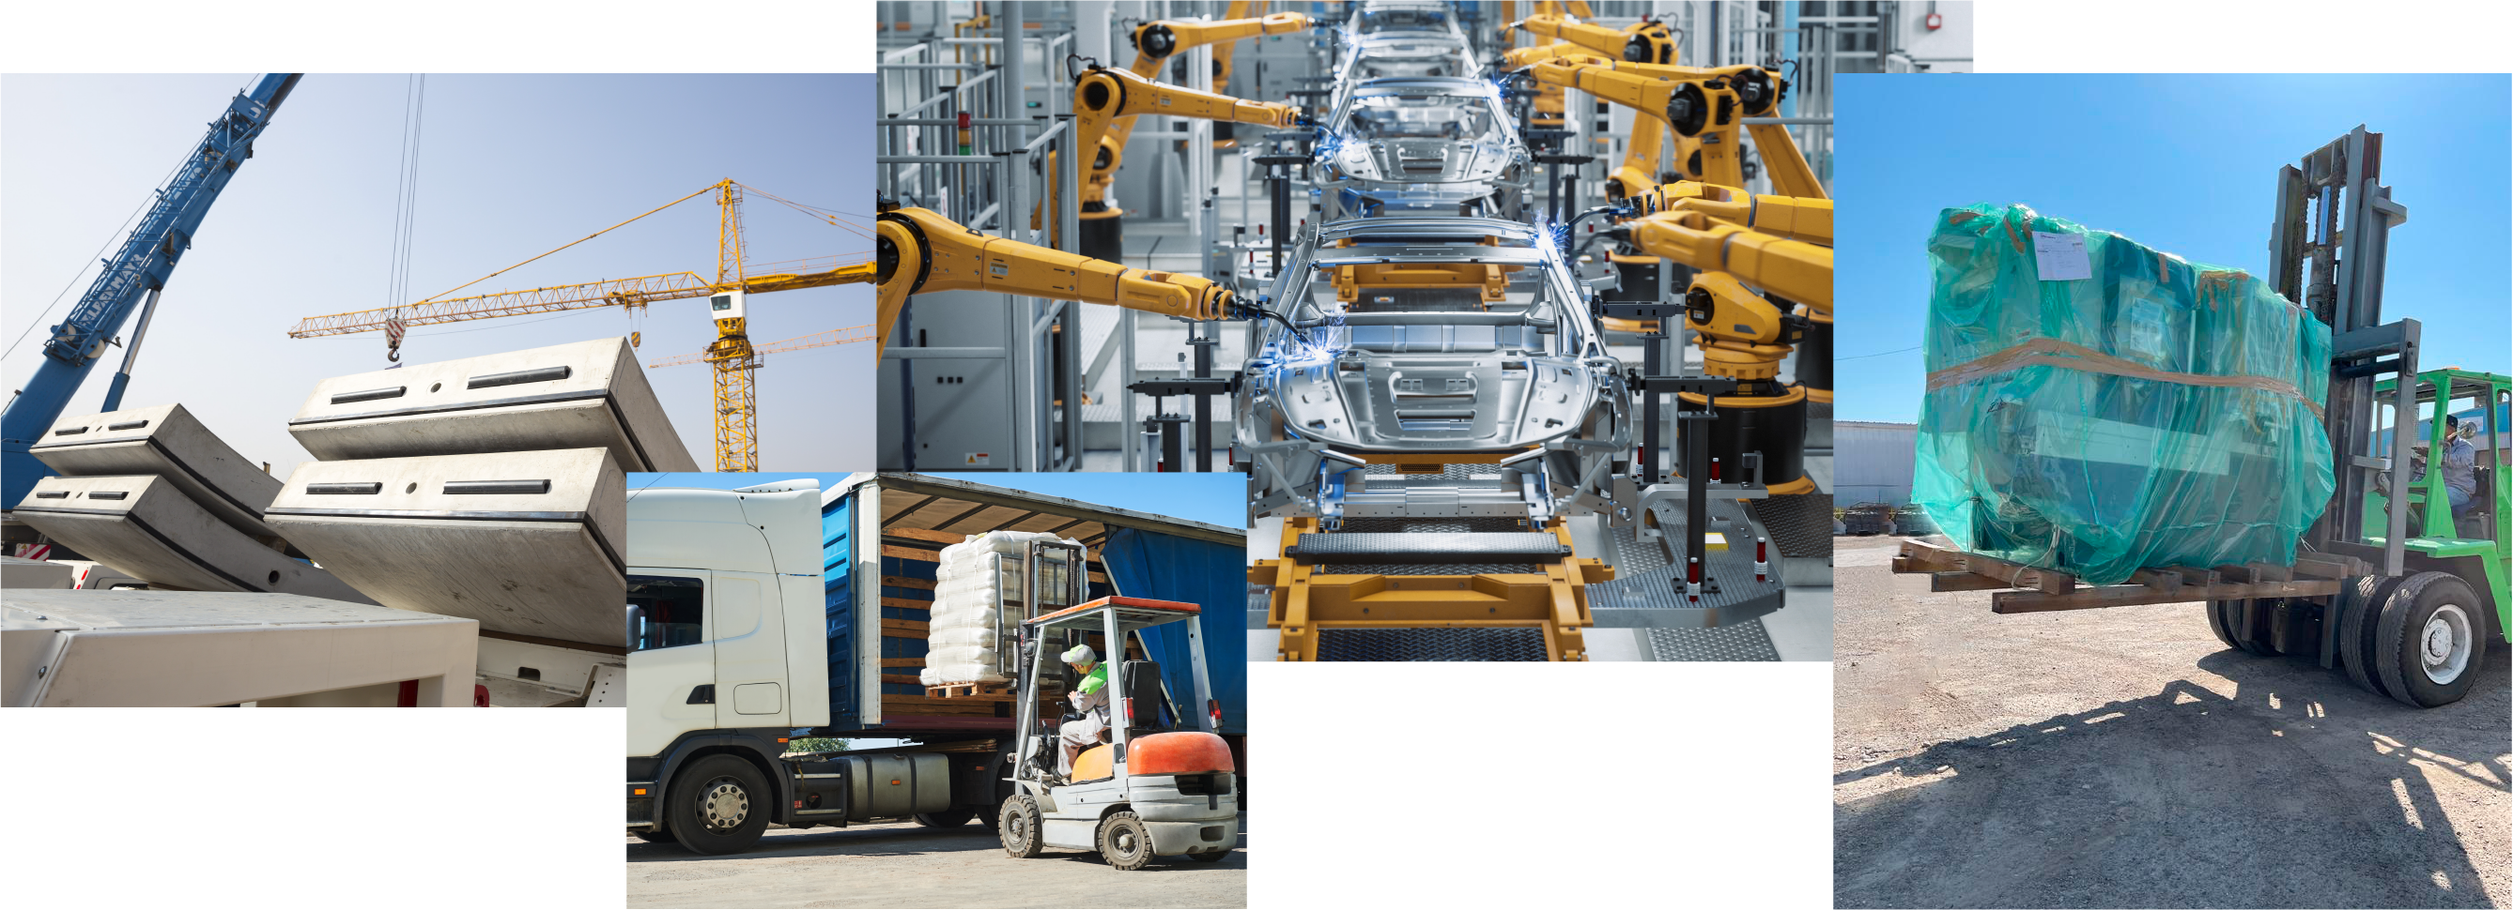
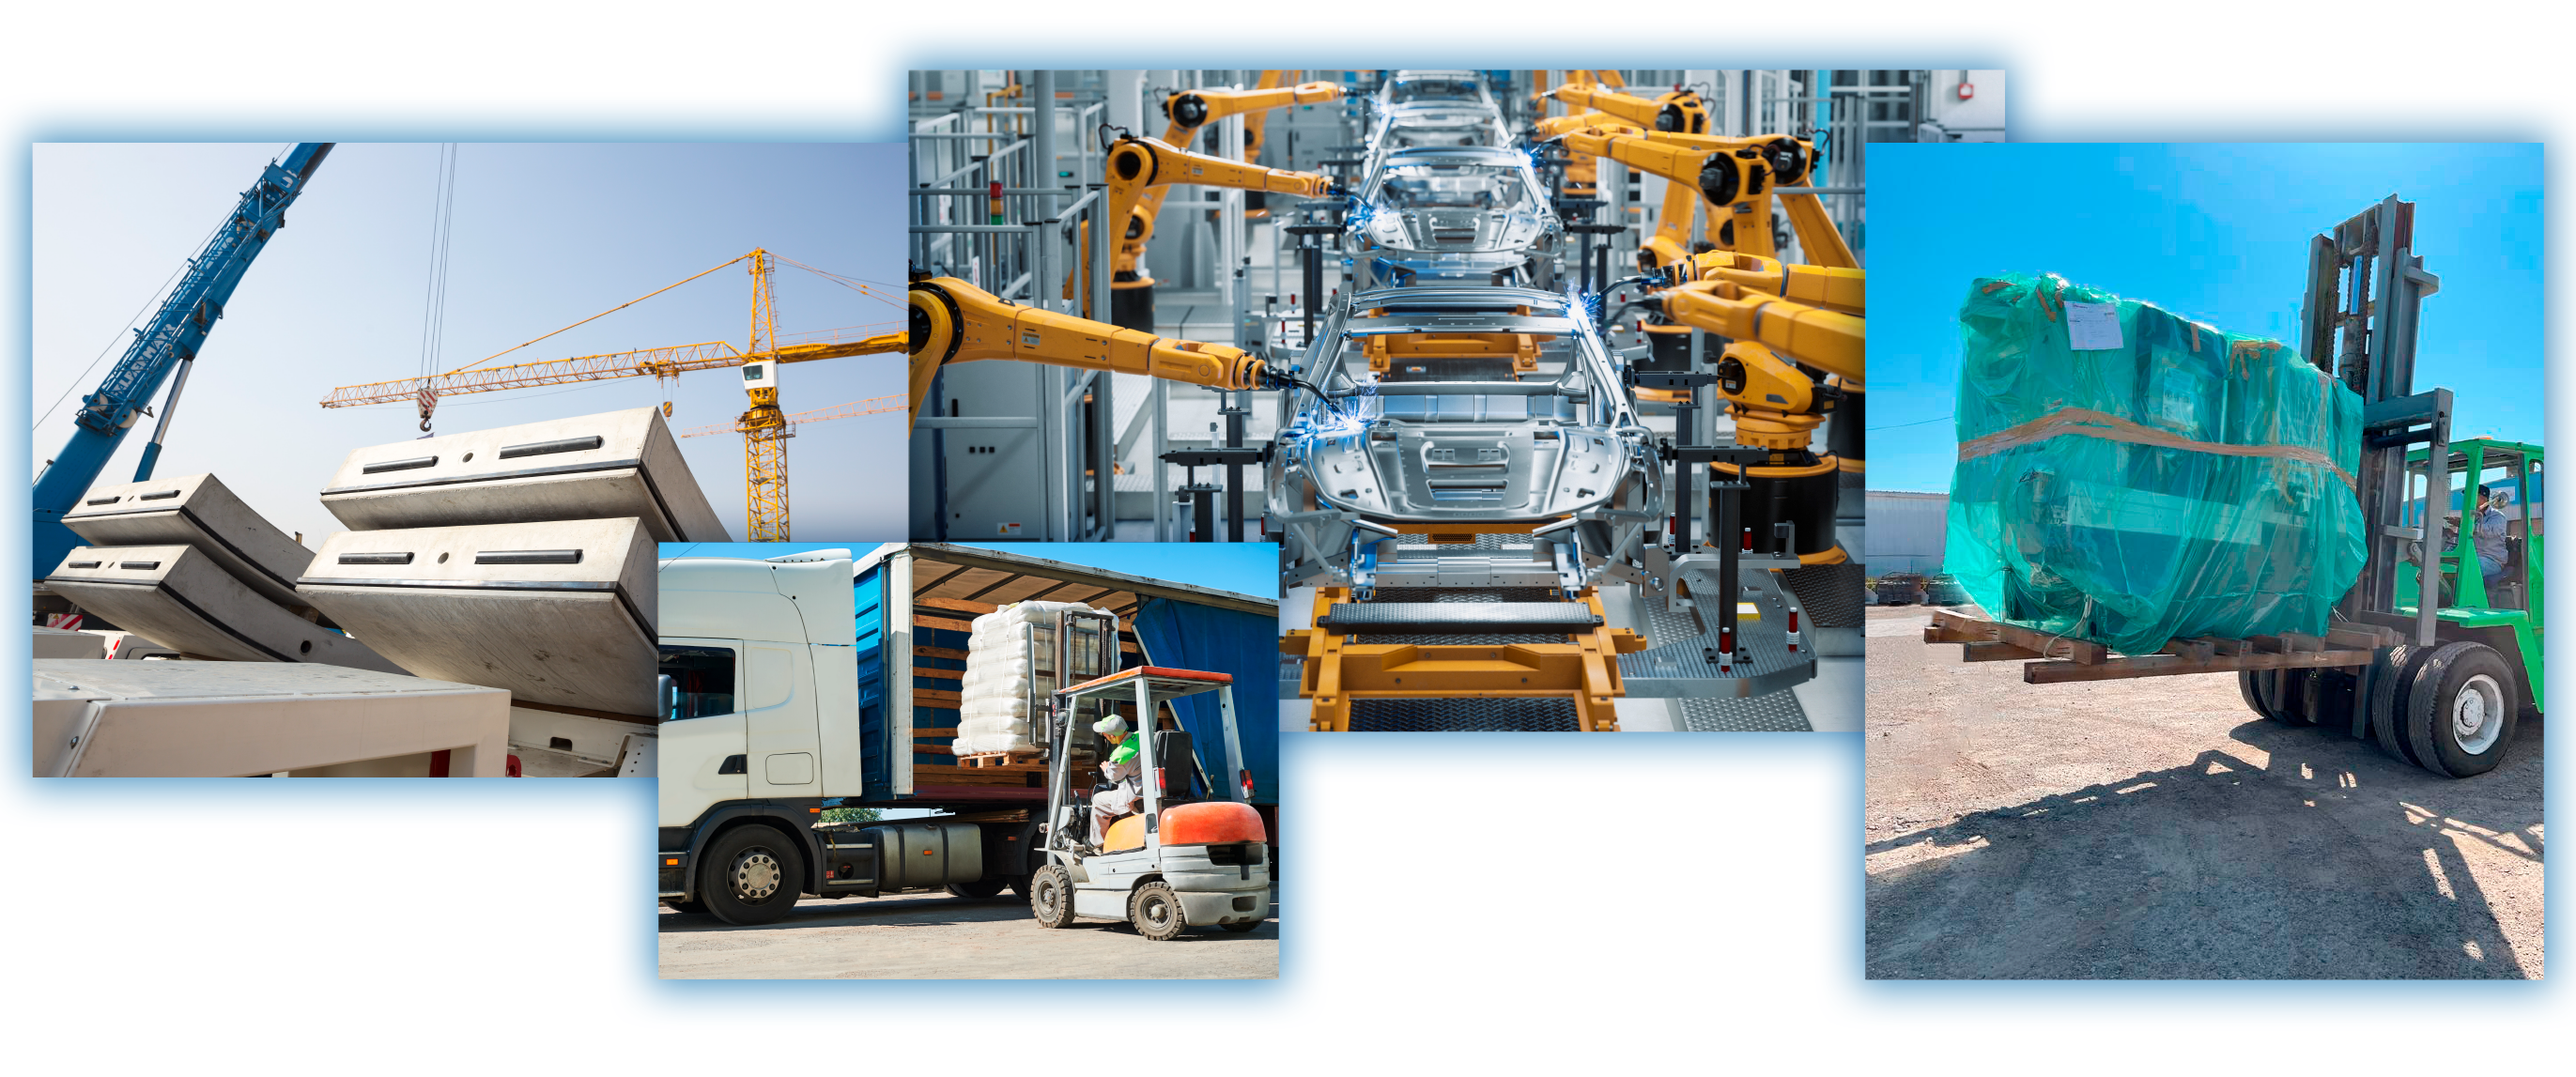
font family

diff --git a/index.html b/index.html
@@ -9,8 +9,10 @@
 
 <link rel = "stylesheet" href="bootstrap.css">
 <link rel = "stylesheet" href="node_modules/bootstrap-icons/font/bootstrap-icons.css">
-
-
+<style>@import url('https://fonts.googleapis.com/css2?family=PT+Sans+Narrow:wght@700&family=Unbounded:wght@500&display=swap');</style>
+<link rel="preconnect" href="https://fonts.googleapis.com">
+<link rel="preconnect" href="https://fonts.gstatic.com" crossorigin>
+<link href="https://fonts.googleapis.com/css2?family=DM+Sans:wght@400;500&family=Raleway:wght@100;500&display=swap" rel="stylesheet">
 
 
 <style>
@@ -42,9 +44,6 @@
         }
         .nav-link:hover {
             color: #4bccf9;
-        }
-        .nav-link:checked {
-            color: pink;
         }
         .navbar{
             position: fixed;
@@ -104,10 +103,14 @@
             color: blue;
             
             transition: 5s all ease;
+            font-family: 'PT Sans Narrow', sans-serif;
+            font-family: 'Unbounded', cursive;
         }
         .negro{
             font-weight: 500;
             transition: 5s all ease;
+            font-family: 'PT Sans Narrow', sans-serif;
+            font-family: 'Unbounded', cursive;
         }
         .parallax-container {
             /*  this is where the magic happens:  */
@@ -129,11 +132,15 @@
         }
         .parallax-container2 {
             /*  this is where the magic happens:  */
-            background-image: url("https://images.unsplash.com/photo-1519120944692-1a8d8cfc107f?ixlib=rb-1.2.1&ixid=MnwxMjA3fDB8MHxwaG90by1wYWdlfHx8fGVufDB8fHx8&auto=format&fit=crop&w=872&q=80");
+            background-image: url("assets/IMG_5128-azul2.png");
             background-attachment: fixed;
             background-position: center;
             background-size: cover;
-            background-size: 100% 100%;  
+            background-size: 100% 100%;
+            
+            text-shadow: 2px 2px 4px #424143;
+            color:#ff6600;
+            
             
 
             /* dimensions are important, ensure it is tall enough to scroll */ 
@@ -143,12 +150,70 @@
             display: flex;
             flex-direction: column;
             align-items: center;
-             justify-content: center;
+            justify-content: center;
         }
+        .bg-divided{
+            width: 100%;
+            height: 100vh;
+            background: linear-gradient(
+                to right,
+                #ff6600 0%,
+                #ff6600 50%,
+                #4bccf9 50%,
+                #4bccf9 100%
+            );
+        }
+        .float{
+            position:fixed;
+            width:60px;
+            height:60px;
+            bottom:10px;
+            right:19px;
+            background-color:#25d366;
+            color:#FFF;
+            border-radius:50px;
+            text-align:center;
+            font-size:30px;
+            box-shadow: 2px 2px 3px #999;
+            z-index:100;
+        }
+
+        .my-float{
+            margin-top:16px;
+        }
+        .display-1{
+            font-family: 'PT Sans Narrow', sans-serif;
+            font-family: 'Unbounded', cursive;
+        }
+        .display-2{
+            font-family: 'PT Sans Narrow', sans-serif;
+            font-family: 'Unbounded', cursive;
+        }
+        .display-3{
+            font-family: 'PT Sans Narrow', sans-serif;
+            font-family: 'Unbounded', cursive;
+        }
+        .display-4{
+            font-family: 'PT Sans Narrow', sans-serif;
+            font-family: 'Unbounded', cursive;
+        }
+        .display-5{
+            font-family: 'Raleway', sans-serif;
+        }
+        .display-6{
+            font-family: 'DM Sans', sans-serif;
+        }
+        
+        
 
 </style>
 
-<body> 
+<body>
+    
+    <link rel="stylesheet"  style = "margin-left: 50px;" href="https://maxcdn.bootstrapcdn.com/font-awesome/4.5.0/css/font-awesome.min.css">
+        <a href="tel:9565161917" class="float" target="_blank">
+        <i class="fa fa-whatsapp my-float"></i>
+    </a>
     
     <nav class="navbar navbar-expand-lg border-bottom border-white z-3" id="navbar" style="background-color:#000020;">
         <div class="container-fluid p-0">
@@ -269,7 +334,7 @@
                     </p>
                </div>
                 <div class="row gy-0" >
-                    <p class="display-6" style="">Diseñamos estrategias óptimas para el 
+                    <p class="display-6" >Diseñamos estrategias óptimas para el 
                         envío de su mercancía vía terrestre, marítima y aérea.
                     </p>
                 </div>
@@ -339,52 +404,57 @@
             <div class="row mt-5 z-0 ">
                 <div class="col-12 ">
                         <div class="display-1 text-center" style="font-weight: 900;">
-                            <span class="value" akhi="20000" style=" color:orange;">0</span><span style="font-size: 20%; color:orange;">sqft</span>
-                            <p class="display-6" style="font-weight: 600;color:orange;">PARA ALMACENAJE EN BODEGA</p> 
+                            <span style=" color:#ff6600;">20,000</span><span style="font-size: 20%; color:#ff6600;">sqft</span>
+                            <p class="display-6" style="font-weight: 600;color:#ff6600;">PARA ALMACENAJE EN BODEGA</p> 
                         </div>
                 </div>
             </div>
         </div>
 
         <!--CONTAMOS CON...-->
-        <div class="row align-items-center reveal pt-5 pb-5">
-            <div class="col-md-6 " >
-                <p class="display-4 text-left ind-lg" style=" font-weight: 700;">CONTAMOS CON  SERVICIOS  
-                ESPECIALIZADOS  COMO: </p> 
-            </div>
-            <div class="col-md-6">
-                <ul class="display-6" style="color:blue; font-weight: 350;  list-style-type: circle; padding-left: 15%; font-weight: 400;">
-                    <li class="reveal"><span>Servicios de Comercio Exterior</span></li>
-                    <li class="li1 reveal"><span>Etiquetado de mercancía</span></li>
-                    <li class="li1 reveal"><span>Manejo de carga especializada y sobre dimensionada</span></li>
-                    <li class="li1 reveal"><span>Consolidación multiproveedor</span></li>
-                    <li class="li1 reveal"><span>Operación de hand carriers y charters</span></li>
-                    <li class="li1 reveal"><span>Distribución</span></li>
-                </ul>
+        <div class="container bg-divided">
+            <div class="row align-items-center reveal pt-5 pb-5" >
+                <div class="col-md-6" >
+                    <p class="display-4 text-left ind-lg text-white" style=" font-weight: 700;">CONTAMOS CON  SERVICIOS  
+                    ESPECIALIZADOS  COMO: </p> 
+                </div>
+                <div class="col-md-6">
+                    <ul class="display-6" style="color:white; font-weight: 350;  list-style-type: circle; padding-left: 8%; font-weight: 400;">
+                        <li class="reveal"><span>Servicios de Comercio Exterior</span></li>
+                        <li class="li1 reveal"><span>Etiquetado de mercancía</span></li>
+                        <li class="li1 reveal"><span>Manejo de carga especializada y sobre dimensionada</span></li>
+                        <li class="li1 reveal"><span>Consolidación multiproveedor</span></li>
+                        <li class="li1 reveal"><span>Operación de hand carriers y charters</span></li>
+                        <li class="li1 reveal"><span>Distribución</span></li>
+                    </ul>
+                </div>
             </div>
         </div>
-
+        
+        
         <!--ALCANCE-->
-        <div class="container p-0 parallax-container">
-            <div class="row mt-5" id = "alcance" >
+        <!--
+        <div class="container p-0 parallax-container2  ">
+            <div class="row mt-5 mb-5" id = "alcance" >
                 <div class="col-12">
                     <img class="img-fluid" src="assets/alcance.png" style="padding-left:5%; padding-right:5%;">
                 </div>
             </div>
-            <div class="row">
-                <div class="col-12" style="margin-top: 40px;">
-                    <img class="img-fluid" src="assets/mundo-flat4.png">
+            <div class="row" style="margin-top: 15%;">
+                <div class="col-12" >
+                    <img class="img-fluid" src="assets/mundo-flat5.png" style="padding-left: 5%; padding-right: 5%;">
                 </div>
             </div>
-            <div class="row mb-5 " style=" bottom: 50%;">
+            <div class="row" style="margin-bottom: 15%;" >
                 <div class="col-12">
-                    <p class="display-3  text-white"  style=" font-weight: 700; text-align: center;">PRESENCIA EN MÉXICO
-                        <br> Y ESTADOS UNIDOS DE AMÉRICA.<br><br>
+                    <p class="display-3 "  style=" font-weight: 700; text-align: center; color: rgb(68, 238, 68);">PRESENCIA EN MÉXICO
+                        <br> Y ESTADOS UNIDOS DE AMÉRICA.
                     </p>
                 </div>
             </div>
 
         </div>
+        -->
 
 
         <!--ADUANAS-->
@@ -450,16 +520,16 @@
 
         <!--ICONOS-->
         <div class="row"></div>
-        <div class="container pb-4 parallax-container" style="background-color:#063e6a;">
+        <div class="container pb-4 parallax-container2" style="background-color:#063e6a;">
             <div class="row p-0">
                 <div class="row">
                     <div class="d-flex justify-content-center pt-5">
                         
-                            <p style="color:white;">
-                                <h1 class="bi bi-airplane bi-truck" style="color:white;"></h1><span>&nbsp&nbsp&nbsp&nbsp&nbsp&nbsp&nbsp&nbsp&nbsp&nbsp&nbsp&nbsp</span>
-                                <h1 class="bi bi-truck" style="color:white;"></h1><span>&nbsp&nbsp&nbsp&nbsp&nbsp&nbsp&nbsp&nbsp&nbsp&nbsp&nbsp&nbsp</span>
-                                <h1 class="bi bi-truck-flatbed" style="color:white;"></h1><span>&nbsp&nbsp&nbsp&nbsp&nbsp&nbsp&nbsp&nbsp&nbsp&nbsp&nbsp&nbsp</span>
-                                <h1 class="bi bi-truck-front" style="color:white;"></h1>
+                            <p style="color:#ff6600;">
+                                <h1 class="bi bi-airplane bi-truck" style="color:#ff6600;"></h1><span>&nbsp&nbsp&nbsp&nbsp&nbsp&nbsp&nbsp&nbsp&nbsp&nbsp&nbsp&nbsp</span>
+                                <h1 class="bi bi-truck" style="color:#ff6600;"></h1><span>&nbsp&nbsp&nbsp&nbsp&nbsp&nbsp&nbsp&nbsp&nbsp&nbsp&nbsp&nbsp</span>
+                                <h1 class="bi bi-truck-flatbed" style="color:#ff6600;"></h1><span>&nbsp&nbsp&nbsp&nbsp&nbsp&nbsp&nbsp&nbsp&nbsp&nbsp&nbsp&nbsp</span>
+                                <h1 class="bi bi-truck-front" style="color:#ff6600;"></h1>
                             </p>
                         
                     </div>
@@ -467,13 +537,13 @@
                 
 
                 <div class="col-12">
-                    <p class="display-6 text-center" style="color:white;; padding-bottom: 29px; font-size: 2rem;"><BR>Nuestro objetivo es impulsar su crecimiento.<br><br>
+                    <p class="display-6 text-center" style="color:white; padding-bottom: 29px; font-size: 2rem;"><BR>Nuestro objetivo es impulsar su crecimiento.<br><br>
                          <b>Trabajamos con todo tipo de industrias,<br></b> desde artículos para bebé, automotriz,
                           maquinaria, mercancía HAZ-MAT, entre otras.<br>
                     </p>
                 </div>
                 <div class="col-12">
-                    <img class="img-fluid pb-5" src="assets/collage.png" style=" margin-top: -17px;">
+                    <img class="img-fluid pb-5" src="assets/collage.png" style=" margin-top: -17px; filter: drop-shadow(0 0 0.75rem black);">
                 </div>
                 <div class="col-12">
                     <p class="display-6 text-center text-white"> El personal de <b>GRUPO LERI</b> esta capacitado 
